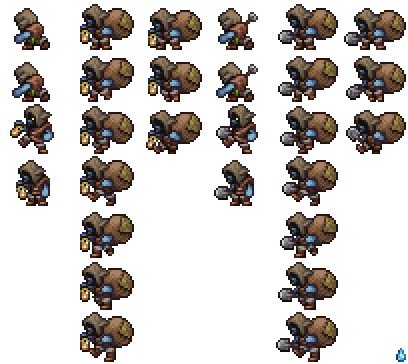
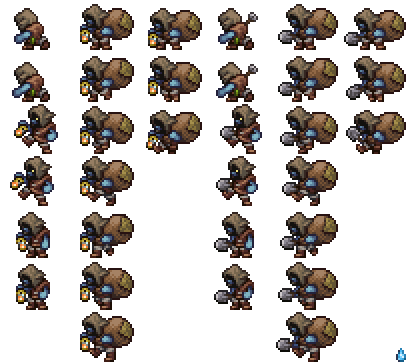
Backpack progress + polish

Changed region(s): [[0.5294, 0.272, 0.6471, 0.8764], [0.0294, 0.272, 0.1471, 0.8764]]

diff --git a/Content/Desert/NPCs/Robber/Graverobber.cs b/Content/Desert/NPCs/Robber/Graverobber.cs
@@ -1,5 +1,8 @@
+using SpiritReforged.Common.MathHelpers;
 using SpiritReforged.Common.NPCCommon;
 using SpiritReforged.Common.Visuals.Glowmasks;
+using SpiritReforged.Content.Desert.Biome;
+using SpiritReforged.Content.Desert.Tiles;
 using System.IO;
 using Terraria.DataStructures;
 using Terraria.GameContent.Bestiary;
@@ -10,6 +13,42 @@ namespace SpiritReforged.Content.Desert.NPCs.Robber;
 [AutoloadGlowmask("255,255,255", false)]
 public class Graverobber : ModNPC
 {
+	private class DroppedBag(Vector2 position, int direction)
+	{
+		public Rectangle Hitbox
+		{
+			get
+			{
+				const int size = 32;
+				return new((int)_position.X - size / 2, (int)_position.Y - size / 2, size, size);
+			}
+		}
+
+		private readonly int _direction = direction;
+		private Vector2 _position = position;
+		private Vector2 _velocity;
+
+		public void Update()
+		{
+			if (CollisionChecks.Tiles(Hitbox, CollisionChecks.SolidOrPlatform))
+				_velocity = Vector2.Zero;
+			else
+				_velocity.Y = Math.Min(_velocity.Y + 0.5f, 4);
+
+			_position += _velocity;
+		}
+
+		public void Draw(SpriteBatch spriteBatch)
+		{
+			int type = ModContent.NPCType<LootBag>();
+			Texture2D texture = TextureAssets.Npc[type].Value;
+			Rectangle source = texture.Frame(1, Main.npcFrameCount[type], 0, 2, 0, -2);
+			SpriteEffects effects = (_direction == 1) ? SpriteEffects.FlipHorizontally : SpriteEffects.None;
+
+			spriteBatch.Draw(texture, _position - Main.screenPosition, source, Lighting.GetColor(_position.ToTileCoordinates()), 0, source.Size() / 2, 1, effects, 0);
+		}
+	}
+
 	public enum State : byte { Idle, Walk, Jump }
 
 	/// <summary> Used to change behaviour at intervals. </summary>
@@ -21,8 +60,11 @@ public class Graverobber : ModNPC
 	/// <summary> The end frame of the NPC animation mod 3. </summary>
 	public int EndFrame => endFrames[(int)AnimationState % endFrames.Length];
 
-	private static readonly int[] endFrames = [4, 7, 3];
-	private State AnimationState = State.Idle;
+	public State AnimationState { get; private set; } = State.Idle;
+
+	private static readonly int[] endFrames = [6, 7, 3];
+	private bool _alerted;
+	private DroppedBag _bag;
 
 	public override void SetStaticDefaults()
 	{
@@ -33,11 +75,12 @@ public class Graverobber : ModNPC
 	public override void SetDefaults()
 	{
 		NPC.Size = new(32);
-		NPC.lifeMax = 80;
-		NPC.damage = 8;
+		NPC.lifeMax = 120;
+		NPC.defense = 5;
+		NPC.damage = 12;
 		NPC.HitSound = SoundID.NPCHit1;
 		NPC.DeathSound = SoundID.NPCDeath1;
-		NPC.knockBackResist = 1f;
+		NPC.knockBackResist = 0.5f;
 		AIType = -1;
 	}
 
@@ -53,28 +96,41 @@ public class Graverobber : ModNPC
 	{
 		NPC.velocity.X = MathHelper.Lerp(NPC.velocity.X, TargetSpeed, 0.1f);
 
-		if (PlayerInRange(400))
-		{
-			TargetSpeed = ((Main.player[NPC.target].Center.X > NPC.Center.X) ? 1 : -1) * 2f;
-		}
-		else if (Main.netMode != NetmodeID.MultiplayerClient && Counter % 80 == 0)
-		{
-			float oldTargetSpeed = TargetSpeed;
-			int direction = Main.rand.NextFromList(-1, 0, 1);
-
-			TargetSpeed = direction * Main.rand.NextFloat(1f, 2f);
-
-			if (TargetSpeed != oldTargetSpeed)
-				NPC.netUpdate = true;
-		}
-
 		if (AnimationState is State.Idle)
 		{
-			if (TargetSpeed != 0)
+			if (PlayerInRange(200))
+				_alerted = true;
+
+			if (_alerted && NPC.frameCounter >= EndFrame)
+			{
 				ChangeAnimationState(State.Walk);
+				_bag = null;
+			}
+			else
+			{
+				int direction = -NPC.direction;
+				_bag ??= new(NPC.Center + new Vector2(direction * 40, 0), direction);
+				_bag.Update();
+			}
 		}
 		else
 		{
+			if (PlayerInRange(400))
+			{
+				Player target = Main.player[NPC.target];
+				TargetSpeed = Math.Sign(target.Center.X - NPC.Center.X) * 2f;
+			}
+			else if (Main.netMode != NetmodeID.MultiplayerClient && Counter % 80 == 0)
+			{
+				float oldTargetSpeed = TargetSpeed;
+				int direction = Main.rand.NextFromList(-1, 0, 1);
+
+				TargetSpeed = direction * Main.rand.NextFloat(1f, 2f);
+
+				if (TargetSpeed != oldTargetSpeed)
+					NPC.netUpdate = true;
+			}
+
 			ChangeAnimationState((NPC.velocity.Y != 0) ? State.Jump : State.Walk);
 
 			if (AnimationState is State.Walk)
@@ -136,23 +192,34 @@ public class Graverobber : ModNPC
 			if (Main.netMode != NetmodeID.SinglePlayer)
 				NetMessage.SendData(MessageID.SyncNPC, number: whoAmI);
 		}
+
+		if (!_alerted && AnimationState is State.Idle)
+			_alerted = true;
 	}
 
 	public override void FindFrame(int frameHeight)
 	{
-		float frameRate = (AnimationState == State.Walk) ? Math.Min(Math.Abs(NPC.velocity.X) / 5f, 0.2f) : 0.2f; //Rate depends on movement speed
+		bool canLoop = AnimationState is State.Walk;
+		float frameRate = (AnimationState is State.Walk) ? Math.Min(Math.Abs(NPC.velocity.X) / 5f, 0.2f) : 0.15f; //Rate depends on movement speed
 
 		NPC.frame.Width = 68;
 		NPC.frame.X = NPC.frame.Width * ((int)AnimationState + (int)(3 * VisualStyle));
-		NPC.frameCounter = (NPC.frameCounter + frameRate) % EndFrame;
+		NPC.frameCounter += frameRate;
 
-		if (AnimationState is State.Jump)
-			NPC.frameCounter = Math.Min(NPC.frameCounter, (NPC.velocity.Y > 0) ? 2 : 1);
+		if (canLoop)
+			NPC.frameCounter %= endFrames[(int)AnimationState];
+
+		if (!_alerted && AnimationState is State.Idle)
+			NPC.frameCounter %= 2; //Mod the animation until alerted
+		else if (AnimationState is State.Jump)
+			NPC.frameCounter = Math.Min(NPC.frameCounter, (NPC.velocity.Y > 0) ? 2 : 1); //Stagger the animation with logic cues
 		else if (AnimationState is State.Walk && Math.Abs(NPC.velocity.X) < 0.1f)
 			NPC.frameCounter = 0; //Stop the animation
 
 		NPC.frame.Y = (int)Math.Min(EndFrame - 1, NPC.frameCounter) * frameHeight;
 	}
+
+	public override float SpawnChance(NPCSpawnInfo spawnInfo) => (spawnInfo.Player.InModBiome<ZigguratBiome>() && spawnInfo.SpawnTileType == ModContent.TileType<RedSandstoneBrick>()) ? 0.1f : 0;
 
 	public override void SendExtraAI(BinaryWriter writer) => writer.Write((byte)AnimationState);
 	public override void ReceiveExtraAI(BinaryReader reader)
@@ -172,6 +239,17 @@ public class Graverobber : ModNPC
 
 		Main.EntitySpriteDraw(texture, position, source, NPC.DrawColor(drawColor), NPC.rotation, source.Size() / 2, NPC.scale, effects);
 		Main.EntitySpriteDraw(glowmask, position, source, NPC.DrawColor(Color.White), NPC.rotation, source.Size() / 2, NPC.scale, effects);
+
+		if (AnimationState is State.Idle)
+		{
+			if (_alerted)
+			{
+				source = new(396, 348, 10, 14);
+				Main.EntitySpriteDraw(texture, position - new Vector2(0, 10), source, NPC.DrawColor(drawColor), NPC.rotation, source.Size() / 2, NPC.scale, effects);
+			}
+
+			_bag?.Draw(spriteBatch);
+		}
 
 		return false;
 	}

diff --git a/Content/Desert/NPCs/Robber/LootBag.cs b/Content/Desert/NPCs/Robber/LootBag.cs
@@ -10,15 +10,19 @@ public class LootBag : ModNPC
 {
 	public sealed class CoinParticle : Particle
 	{
+		public enum CoinType { Copper, Silver, Gold, Platinum }
+
 		public override ParticleDrawType DrawType => ParticleDrawType.Custom;
 
+		public readonly CoinType Coin;
 		private bool _colliding;
 
-		public CoinParticle(Vector2 position, Vector2 velocity, int maxTime)
+		public CoinParticle(Vector2 position, Vector2 velocity, int maxTime, CoinType coin = default)
 		{
 			Position = position;
 			Velocity = velocity;
 			MaxTime = maxTime;
+			Coin = coin;
 
 			Color = Color.White;
 			Scale = 1;
@@ -56,10 +60,10 @@ public class LootBag : ModNPC
 
 		public override void CustomDraw(SpriteBatch spriteBatch)
 		{
-			Texture2D texture = TextureAssets.Coin[0].Value;
+			Texture2D texture = TextureAssets.Coin[(int)Coin].Value;
 			int frame = _colliding ? 2 : ((int)(TimeActive / 4f) % 8);
 			Rectangle source = texture.Frame(1, 8, 0, frame, 0, -2);
-			float opacity = 1f - (TimeActive - (MaxTime - 30)) / 30f;
+			float opacity = Math.Clamp(1f - (TimeActive - (MaxTime - 30)) / 30f, 0, 1);
 
 			spriteBatch.Draw(texture, Position - Main.screenPosition, source, Lighting.GetColor(Position.ToTileCoordinates()).MultiplyRGB(Color) * opacity, Rotation, source.Size() / 2, Scale, default, 0);
 		}
@@ -124,7 +128,7 @@ public class LootBag : ModNPC
 			NPC.rotation -= 0.5f;
 
 			if (Main.rand.NextBool(20))
-				ParticleHandler.SpawnParticle(new CoinParticle(Main.rand.NextVector2FromRectangle(NPC.Hitbox), NPC.velocity * Main.rand.NextFloat(0.5f), 200));
+				ParticleHandler.SpawnParticle(new CoinParticle(Main.rand.NextVector2FromRectangle(NPC.Hitbox), NPC.velocity * Main.rand.NextFloat(0.5f), 200, (CoinParticle.CoinType)Main.rand.Next(3)));
 
 			if (Main.rand.NextBool(8))
 				Dust.NewDustDirect(NPC.position, NPC.width, NPC.height, DustID.CopperCoin).velocity = NPC.velocity * Main.rand.NextFloat(0.5f);
@@ -140,11 +144,11 @@ public class LootBag : ModNPC
 			for (int i = 0; i < (dead ? 5 : 3); i++)
 				Dust.NewDustDirect(NPC.position, NPC.width, NPC.height, DustID.CopperCoin, Scale: Main.rand.NextFloat(0.5f, 1.2f)).velocity = Main.rand.NextVector2Unit() * Main.rand.NextFloat(2f);
 
-			for (int i = 0; i < (dead ? 5 : 3); i++)
+			for (int i = 0; i < (dead ? 7 : 3); i++)
 			{
 				float intensity = hit.Knockback + 5;
 				Vector2 velocity = (new Vector2(hit.HitDirection * intensity, -intensity) * Main.rand.NextFloat(0.5f, 1)).RotateRandom(1f);
-				ParticleHandler.SpawnParticle(new CoinParticle(Main.rand.NextVector2FromRectangle(NPC.Hitbox), velocity, 200));
+				ParticleHandler.SpawnParticle(new CoinParticle(Main.rand.NextVector2FromRectangle(NPC.Hitbox), velocity, 200, (CoinParticle.CoinType)Main.rand.Next(3)));
 			}
 
 			if (dead)
@@ -182,5 +186,16 @@ public class LootBag : ModNPC
 
 		Main.EntitySpriteDraw(texture, position, source, NPC.DrawColor(drawColor), NPC.rotation, source.Size() / 2, NPC.scale, effects);
 		return false;
+	}
+
+	public override void ModifyNPCLoot(NPCLoot npcLoot)
+	{
+		npcLoot.AddCommon(ItemID.Amethyst, 2, 1, 3);
+		npcLoot.AddCommon(ItemID.Topaz, 2, 1, 3);
+		npcLoot.AddCommon(ItemID.Sapphire, 3, 1, 3);
+		npcLoot.AddCommon(ItemID.Emerald, 3, 1, 2);
+		npcLoot.AddCommon(ItemID.Ruby, 3, 1, 2);
+		npcLoot.AddCommon(ItemID.Amber, 4, 1, 2);
+		npcLoot.AddCommon(ItemID.Diamond, 4, 1, 2);
 	}
 }

diff --git a/Content/Forest/Backpacks/GiantBag.cs b/Content/Forest/Backpacks/GiantBag.cs
@@ -1,0 +1,45 @@
+using SpiritReforged.Common.ItemCommon.Backpacks;
+using SpiritReforged.Common.Visuals;
+using Terraria.DataStructures;
+
+namespace SpiritReforged.Content.Forest.Backpacks;
+
+public class GiantBag : BackpackItem
+{
+	public sealed class GiantBagLayer : PlayerDrawLayer
+	{
+		public static readonly Asset<Texture2D> Texture = DrawHelpers.RequestLocal(typeof(GiantBag), "GiantBag_Back", false);
+
+		public override Position GetDefaultPosition() => new AfterParent(PlayerDrawLayers.Backpacks);
+		protected override void Draw(ref PlayerDrawSet drawInfo)
+		{
+			return; //DEBUG
+
+			Texture2D texture = Texture.Value;
+			Color color = drawInfo.colorArmorBody;
+			Vector2 position = new Vector2((int)(drawInfo.Position.X - Main.screenPosition.X - drawInfo.drawPlayer.bodyFrame.Width / 2 + drawInfo.drawPlayer.width / 2), (int)(drawInfo.Position.Y - Main.screenPosition.Y + drawInfo.drawPlayer.height - drawInfo.drawPlayer.bodyFrame.Height + 2)) + drawInfo.drawPlayer.bodyPosition + drawInfo.rotationOrigin;
+			Vector2 offset = Main.OffsetsPlayerHeadgear[drawInfo.drawPlayer.bodyFrame.Y / drawInfo.drawPlayer.bodyFrame.Height] * drawInfo.drawPlayer.gravDir;
+
+			if (drawInfo.drawPlayer.gravDir == -1)
+				offset.Y += 22;
+
+			offset.X -= 8 * drawInfo.drawPlayer.direction;
+			Rectangle source = texture.Frame(1, 4, 0, (int)(drawInfo.drawPlayer.bodyFrameCounter / 18) % 4);
+			DrawData drawData = new(texture, position + offset, source, color, drawInfo.drawPlayer.bodyRotation, drawInfo.rotationOrigin, 1f, drawInfo.playerEffect, 0)
+			{
+				shader = drawInfo.cBack
+			};
+
+			drawInfo.DrawDataCache.Add(drawData);
+		}
+	}
+
+	protected override int SlotCap => 6;
+
+	public override void Defaults()
+	{
+		Item.Size = new Vector2(34, 28);
+		Item.value = Item.buyPrice(0, 0, 5, 0);
+		Item.rare = ItemRarityID.Blue;
+	}
+}

diff --git a/Common/ItemCommon/Backpacks/BackpackItem.cs b/Common/ItemCommon/Backpacks/BackpackItem.cs
@@ -4,7 +4,7 @@ using Terraria.ModLoader.IO;
 
 namespace SpiritReforged.Common.ItemCommon.Backpacks;
 
-internal abstract class BackpackItem : ModItem
+public abstract class BackpackItem : ModItem
 {
 	protected override bool CloneNewInstances => true;
 

diff --git a/Content/Desert/NPCs/Grub.cs b/Content/Desert/NPCs/Grub.cs
@@ -1,6 +1,4 @@
 using SpiritReforged.Common.NPCCommon;
-using SpiritReforged.Common.PrimitiveRendering;
-using SpiritReforged.Common.PrimitiveRendering.Trail_Components;
 using System.IO;
 using Terraria.Audio;
 using Terraria.GameContent.Bestiary;
